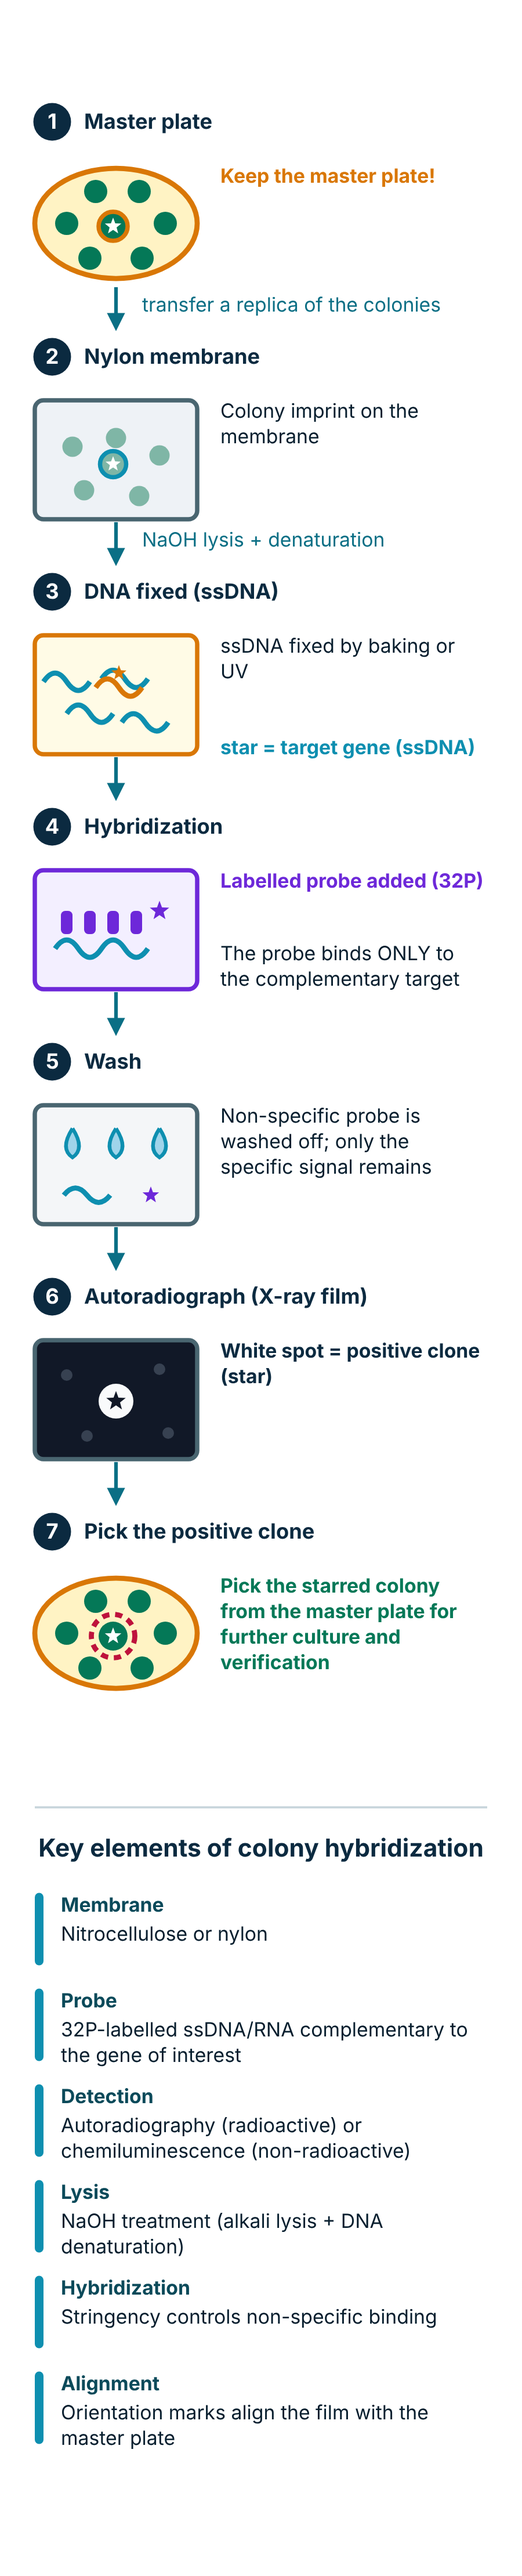
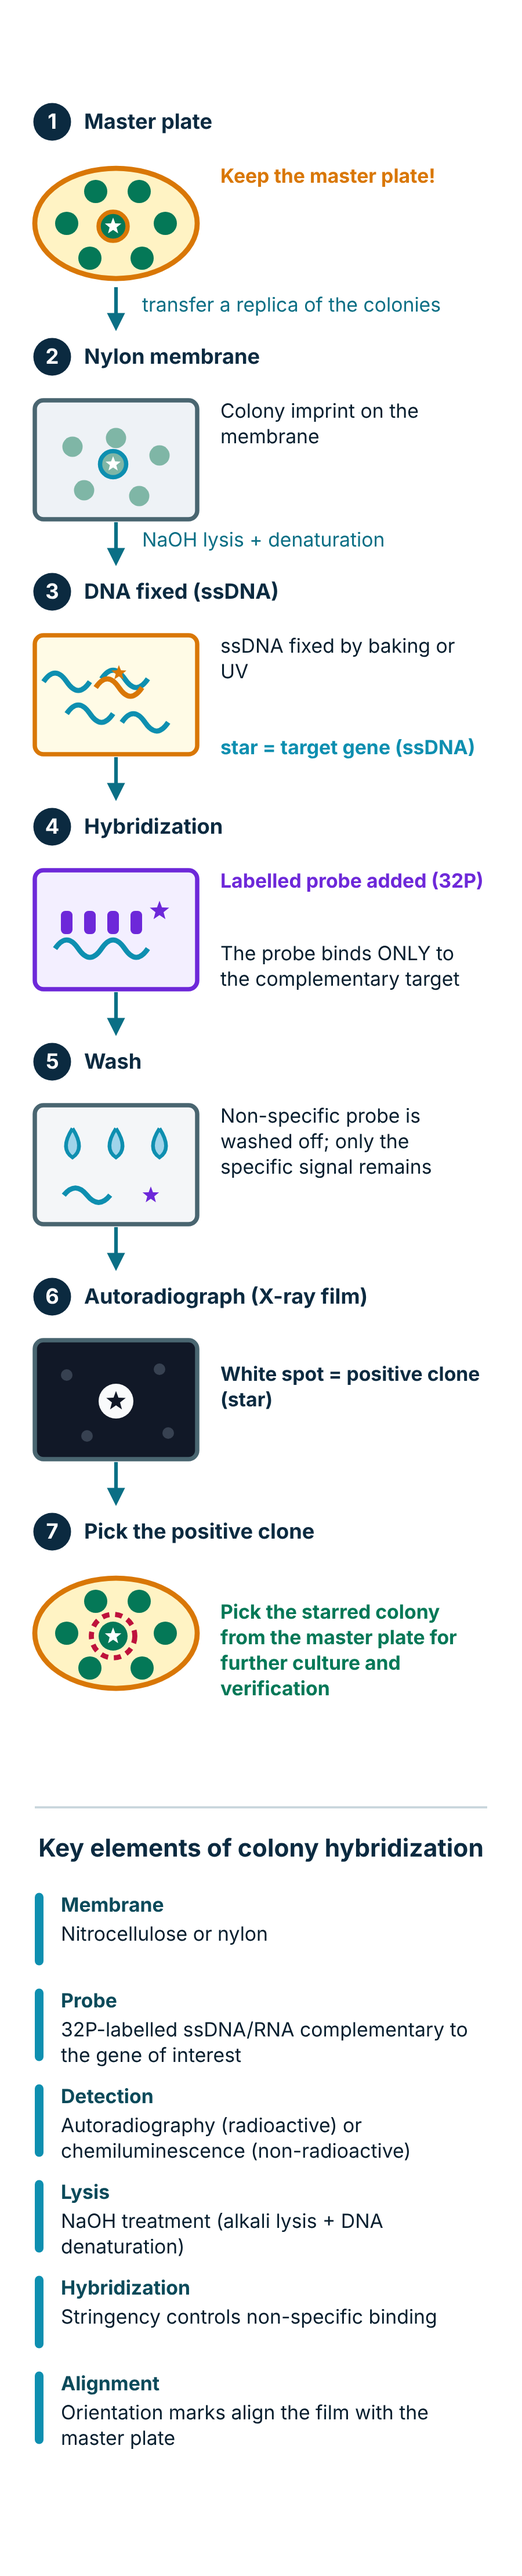
screening-d04 heading spacing; primer/denature per chapter rule; terms ledger
Claude-Session: https://claude.ai/code/session_01Wo7Biy93fw6YCyh6drJ1WX

diff --git a/tools/figures/src/screening_selection_recombinants-d04/gen_figure.py b/tools/figures/src/screening_selection_recombinants-d04/gen_figure.py
@@ -60,13 +60,13 @@ y = 5 * PITCH; head(6, y, 't6')
 B.append(f'<rect x="24" y="{y+42}" width="112" height="82" rx="6" fill="#111827" stroke="{GRAY}" stroke-width="3"/>')
 for cx, cy in ((46, 66), (110, 62), (60, 108), (116, 106)): B.append(f'<circle cx="{cx}" cy="{y+cy}" r="4" fill="#374151"/>')
 B.append(f'<circle cx="80" cy="{y+84}" r="12" fill="#f9fafb"/>'); B.append(star(80, y + 84, 7, '#111827'))
-desc('d6', y, 0, DARK, True); link(y)
+desc('d6', y, 16, DARK, True); link(y)
 # 7 pick
 y = 6 * PITCH; head(7, y, 't7')
 B.append(f'<ellipse cx="80" cy="{y+82}" rx="56" ry="38" fill="#fff3c4" stroke="{ORANGE}" stroke-width="3.5"/>')
 for cx, cy in ((46, 82), (114, 82), (62, 106), (98, 106), (66, 60), (96, 60)): B.append(f'<circle cx="{cx}" cy="{y+cy}" r="8" fill="{GREEN}"/>')
 B.append(f'<circle cx="78" cy="{y+84}" r="15" fill="none" stroke="{RED}" stroke-width="3.5" stroke-dasharray="5 4"/>'); B.append(f'<circle cx="78" cy="{y+84}" r="10" fill="{GREEN}"/>'); B.append(star(78, y + 84, 6, '#ffffff'))
-desc('d7', y, 0, GREEN, True)
+desc('d7', y, 18, GREEN, True)
 # key elements
 ky = 7 * PITCH + 74
 B.append(f'<line x1="24" y1="{ky-34}" x2="336" y2="{ky-34}" stroke="#c9d6dc" stroke-width="1.5"/>')

diff --git a/docs/audit/descriptive-terms-ledger.md b/docs/audit/descriptive-terms-ledger.md
@@ -1,0 +1,30 @@
+# Tamil terms in figures: provenance ledger (batches 1 and 2)
+
+Rule (R. Ramesh, 2026-11-12): use the term from the chapter that covers the technique shown; where the books give two options take that rule's choice and keep the other as a glossary synonym. Latin symbols and abbreviations stay Latin. Terms with no textbook term get a short descriptive Tamil phrase, marked here as **descriptive, not State Board**.
+
+## Textbook terms applied
+| English | Tamil used | Source | Glossary synonym |
+|---|---|---|---|
+| primer | முதன்மை இழை | Zoology 12 ch. 10 (PCR), printed p197–198 | தொடக்க இழை (Zoology 12 p84, Bio-Zoology 12 p79) |
+| denaturation | இயல்பு திரிபு | Zoology 12 ch. 10, printed p197; Bio-Zoology agrees | இயல்புநீக்கம் (Microbiology 12) |
+| probe | துலக்கி | Zoology 12 ch. 5 printed p102; three books agree | DNA துருவி (older app string) |
+| free 3′-OH (3′-OH end) | 3′-OH முனை | Zoology 12 p84, p316; Bio-Zoology 12 p79, p292; Microbiology 12 p284. No book translates "free". | — |
+
+## Descriptive, not State Board
+| English | Tamil used | Where |
+|---|---|---|
+| enhancer | மேம்படுத்தி | advanced_vectors-d03 |
+| ori (replication origin) | ori (இரட்டிப்புத் தொடக்கப்புள்ளி) | advanced_vectors-d03 |
+| regulatory region | ஒழுங்குபடுத்தும் பகுதி | advanced_vectors-d03 |
+| early / late region | தொடக்கப் பகுதி / பிந்தியப் பகுதி | advanced_vectors-d03 |
+| minichromosome | மினி குரோமோசோம் | advanced_vectors-d03 |
+| cell transformation | செல் உருமாற்றம் | advanced_vectors-d03 |
+| stringency | கடுமை நிலை | screening-d04 |
+| chemiluminescence | வேதி ஒளிர்வு | screening-d04 |
+| autoradiograph | ஆட்டோரேடியோகிராஃப் | screening-d04 |
+| colony | காலனி | screening-d04, d01 |
+| hybridise | கலப்பு செய்தல் (no chapter evidence to choose between this and கலப்பிணைவு; both kept in glossary) | screening-d04 |
+| promoter | ஊக்குவிப்பான் (ditto ஊக்குவிப்பி) | advanced_vectors-d03 |
+| own explanatory sentences | written by me; not from a textbook | all |
+
+Not yet changed: lesson-body text still says "பிரைமர்" / "இயல்புதிரிதல்" in places; the figure change does not touch body text.
